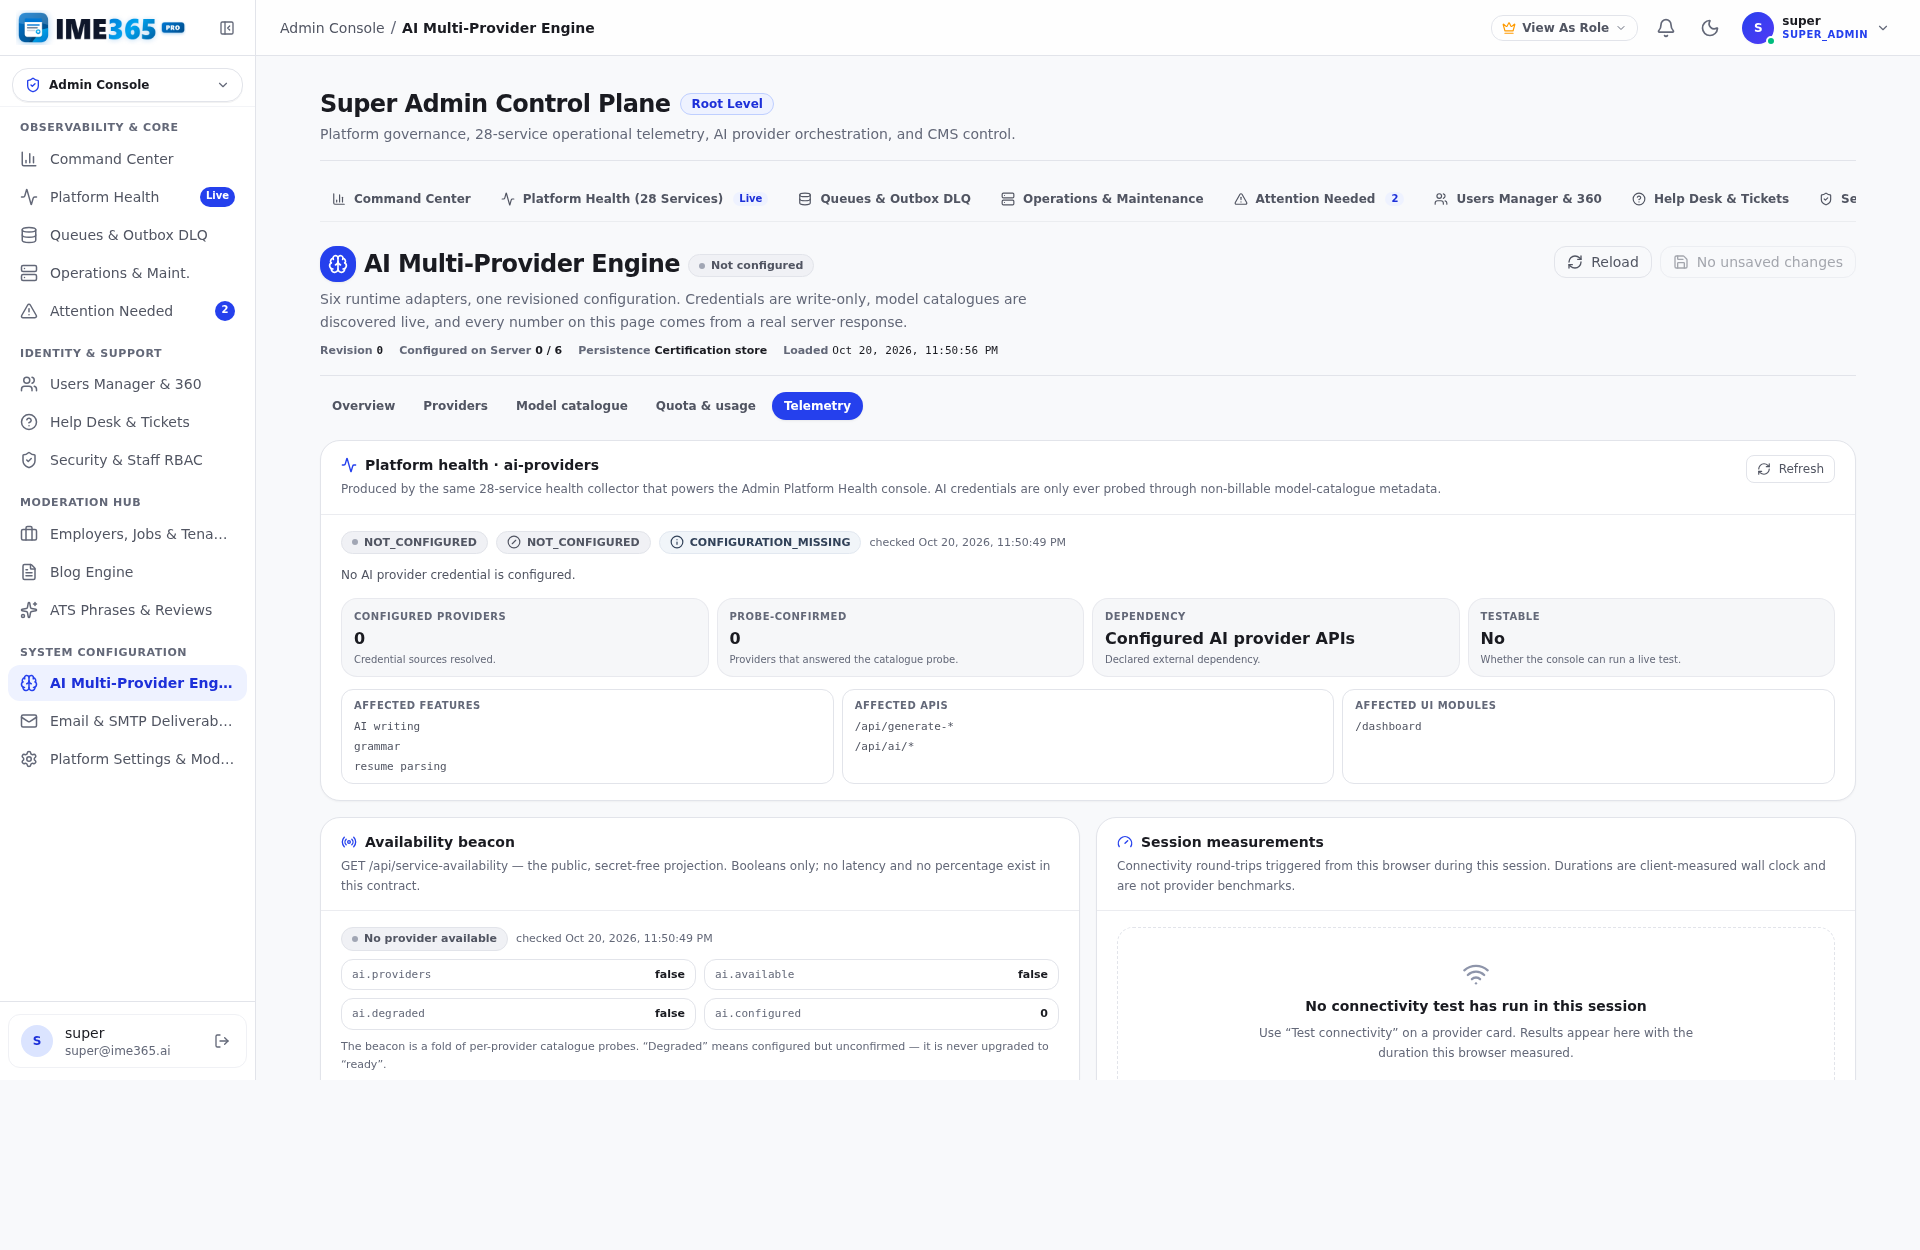
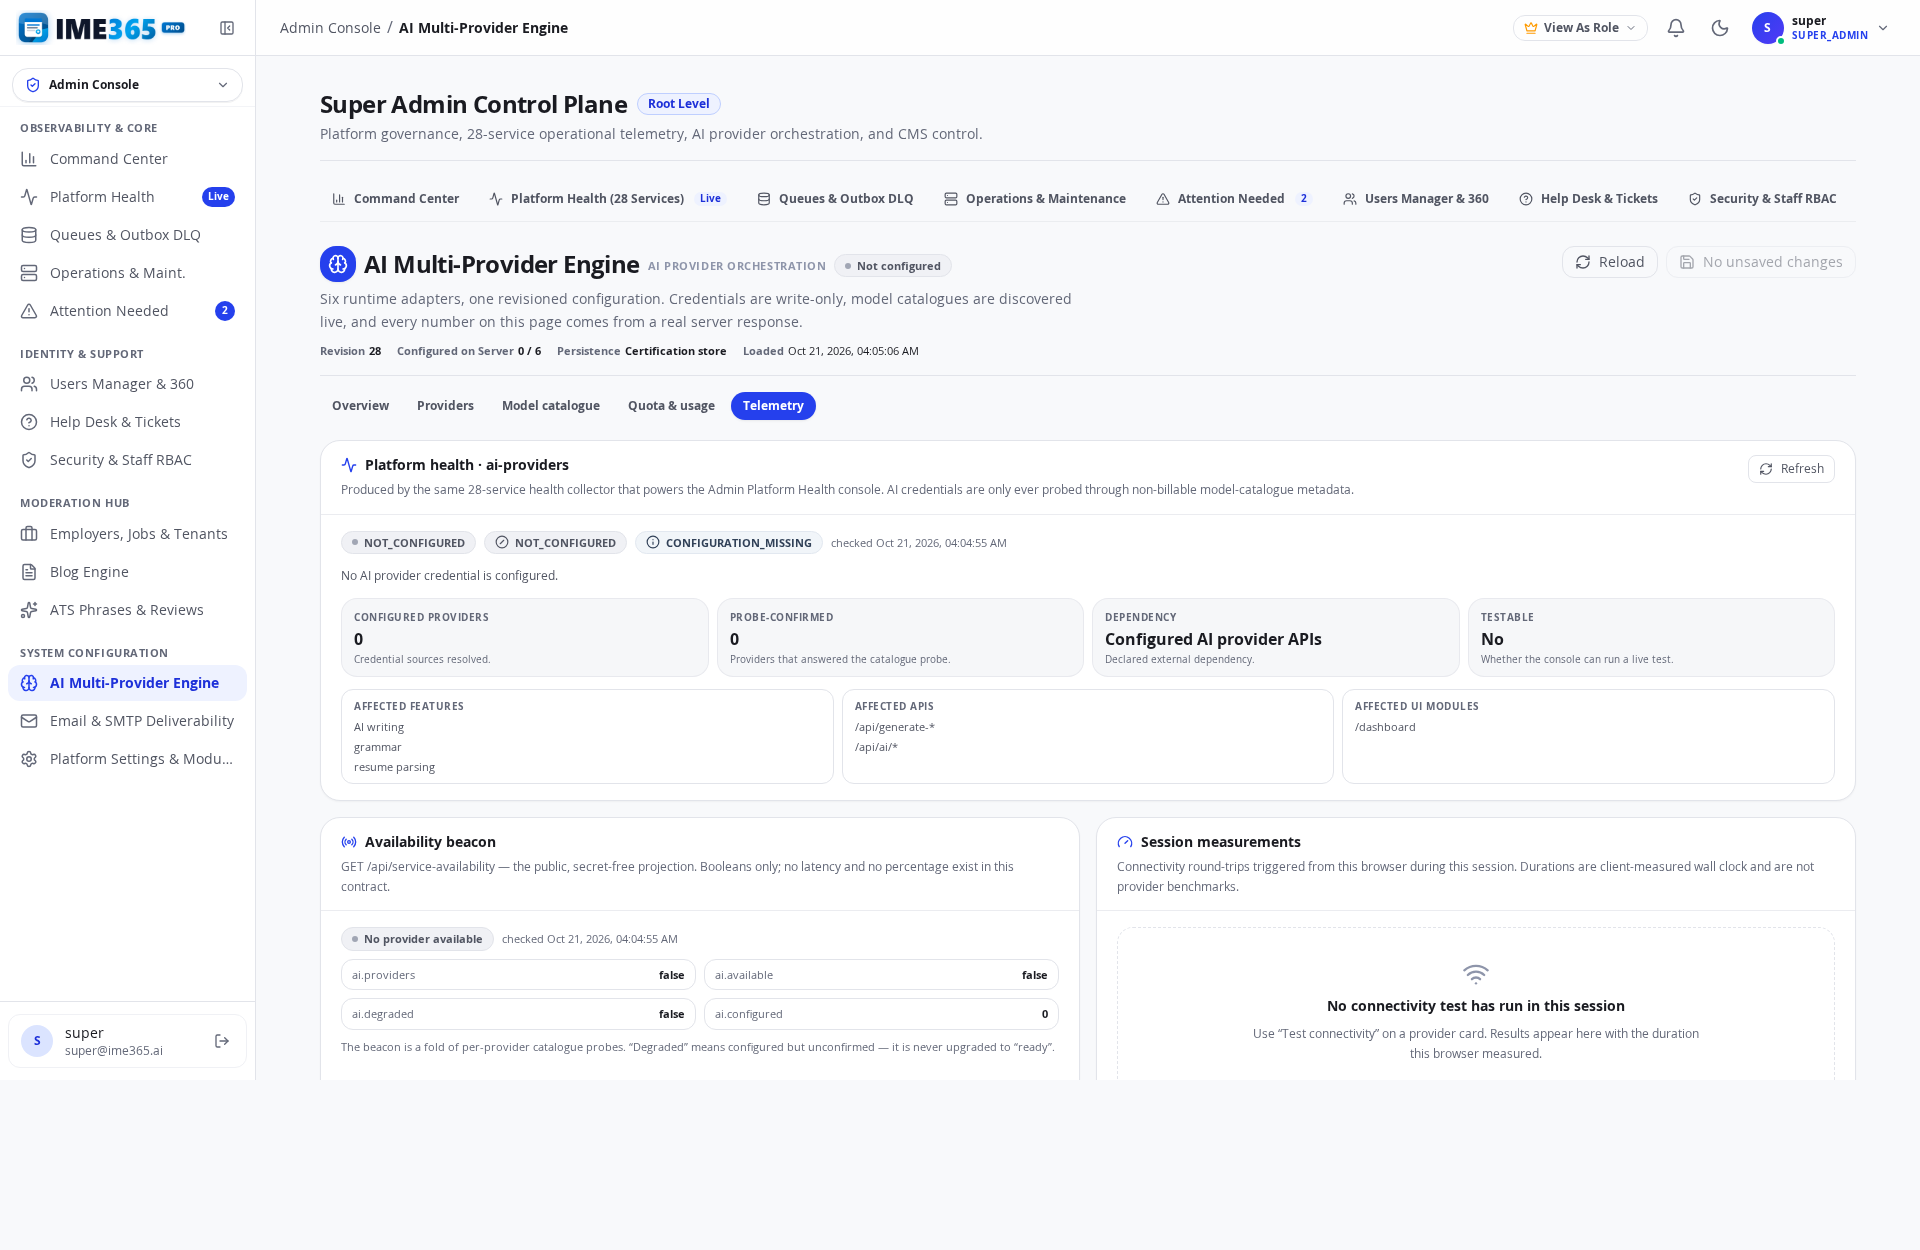
test(ai-engine): prove browser popup isolation; unblock the CI migration gate
Popups
- New external-links suite drives every provider documentation link and the
  key-console links through a real browser popup: target=_blank,
  rel="noopener noreferrer", window.opener === null, and the console's URL
  and section unchanged afterwards. It also proves a staged, unsaved API key
  survives the round trip — the classic way an operator loses work.
- The sandbox has no egress, so provider hosts are fulfilled at origin level
  only; the console's own data is never stubbed.

CI gate
- scripts/verify-mariadb-migrations.mjs asserted a literal end-version that
  went stale when 018-026 landed (026 is the AI quota counter migration this
  console reads), turning the quality gate red on every branch. The
  expectation is now derived from discoverMigrations(): a clean database must
  apply every checked-in migration and end with nothing pending.
- backend/test/migration-verifier-expectation.test.js pins that derivation
  without needing a database, so the literal cannot return.

Suite is now 112 tests across five viewports: 107 passed, 5 environment-
conditioned skips, 0 failed. Evidence recaptured (revision 28 live backend).

diff --git a/tests/ai-engine/external-links.spec.ts b/tests/ai-engine/external-links.spec.ts
@@ -1,0 +1,163 @@
+import { test, expect } from '@playwright/test';
+import { installSession, mintSession, openEngine } from './helpers';
+
+/**
+ * External references — browser popup handling.
+ *
+ * Every provider card links out to that provider's documentation and key
+ * console, and the telemetry health row links to the affected-service docs.
+ * These are the only navigations that leave the console, so they must:
+ *   • open a NEW tab, never navigate the console away (an operator mid-edit
+ *     must not lose an unsaved draft),
+ *   • carry rel="noopener noreferrer" so the target tab cannot reach back into
+ *     the admin window,
+ *   • point at the provider's real documentation host from the registry.
+ *
+ * The sandbox has no outbound network, so the popup itself may fail to load —
+ * this test asserts the *browser-level* contract (a new window with the right
+ * URL and no opener), not the remote page's content.
+ */
+
+/**
+ * This sandbox has no outbound egress, so a real provider documentation host
+ * cannot answer. Each provider host is fulfilled locally at the ORIGIN level
+ * (the URL stays the real one) purely so the popup keeps its identity and the
+ * assertions can address it; nothing about the console's own data is affected.
+ */
+const PROVIDER_HOSTS = [
+  'docs.api.nvidia.com',
+  'ai.google.dev',
+  'platform.openai.com',
+  'console.groq.com',
+  'openrouter.ai',
+  'api-docs.deepseek.com',
+  'build.nvidia.com',
+  'aistudio.google.com',
+  'platform.deepseek.com',
+];
+
+async function stubProviderHosts(context: import('@playwright/test').BrowserContext) {
+  await context.route(
+    (url) => PROVIDER_HOSTS.some((host) => url.hostname === host || url.hostname.endsWith(`.${host}`)),
+    (route) =>
+      route.fulfill({
+        status: 200,
+        contentType: 'text/html',
+        body: '<!doctype html><title>provider documentation (offline stub)</title><h1>offline stub</h1>',
+      }),
+  );
+}
+
+const DOCS_HOSTS: Record<string, string> = {
+  nvidia: 'docs.api.nvidia.com',
+  gemini: 'ai.google.dev',
+  openai: 'platform.openai.com',
+  groq: 'console.groq.com',
+  openrouter: 'openrouter.ai',
+  deepseek: 'api-docs.deepseek.com',
+};
+
+test.describe('External references open in a popup', () => {
+  test('provider documentation links open a new tab and never navigate the console @smoke', async ({ page, context, request }) => {
+    const session = await mintSession(request);
+    await installSession(context, session);
+    await stubProviderHosts(context);
+    await openEngine(page, 'providers');
+
+    const tabs = page.getByTestId('ai-engine-tabs');
+    for (const provider of Object.keys(DOCS_HOSTS)) {
+      const card = page.getByTestId(`ai-engine-provider-${provider}`);
+      const docs = card.getByRole('link', { name: /API docs/i }).first();
+      await docs.scrollIntoViewIfNeeded();
+      await expect(docs, `${provider} docs link`).toBeVisible();
+
+      // Structural guarantee: an outbound reference must never retain a handle
+      // to this window.
+      const rel = (await docs.getAttribute('rel')) ?? '';
+      expect(rel, `${provider} docs rel`).toContain('noopener');
+      expect(rel, `${provider} docs rel`).toContain('noreferrer');
+      expect(await docs.getAttribute('target'), `${provider} target`).toBe('_blank');
+      const href = (await docs.getAttribute('href')) ?? '';
+      expect(href, `${provider} docs href`).toContain(DOCS_HOSTS[provider]);
+
+      const [popup] = await Promise.all([
+        page.waitForEvent('popup', { timeout: 15_000 }),
+        docs.click(),
+      ]);
+      expect(popup.url(), `${provider} popup URL`).toContain(DOCS_HOSTS[provider]);
+      // A noopener popup must not be able to call back into the admin window.
+      expect(await popup.evaluate(() => window.opener === null).catch(() => true)).toBe(true);
+      await popup.close();
+
+      // The console is untouched: same URL, same section, tab strip still live.
+      expect(new URL(page.url()).pathname).toMatch(/\/admin\/ai-settings$/);
+      await expect(page.getByTestId('ai-engine-section-providers')).toBeVisible();
+      await expect(tabs).toBeVisible();
+    }
+  });
+
+  test('provider key consoles open as popups with the same isolation', async ({ page, context, request }) => {
+    const session = await mintSession(request);
+    await installSession(context, session);
+    await stubProviderHosts(context);
+    await openEngine(page, 'providers');
+
+    const card = page.getByTestId('ai-engine-provider-openai');
+    const keyConsole = card.getByRole('link', { name: /Key console/i }).first();
+    await keyConsole.scrollIntoViewIfNeeded();
+
+    const rel = (await keyConsole.getAttribute('rel')) ?? '';
+    expect(rel).toContain('noopener');
+
+    const [popup] = await Promise.all([
+      page.waitForEvent('popup', { timeout: 15_000 }),
+      keyConsole.click(),
+    ]);
+    expect(popup.url()).toContain('platform.openai.com');
+    await popup.close();
+
+    await expect(page.getByTestId('ai-engine-section-providers')).toBeVisible();
+  });
+
+  test('an unsaved draft survives leaving the page to read provider documentation @smoke', async ({ page, context, request }) => {
+    const session = await mintSession(request);
+    await installSession(context, session);
+    await stubProviderHosts(context);
+    await openEngine(page, 'providers');
+
+    // Stage an edit, then use the external link — the classic way an operator
+    // loses work in an admin console.
+    await page.getByTestId('ai-engine-key-groq').fill('gsk_popup_survival_probe_0123456789');
+    await expect(page.getByTestId('ai-engine-unsaved')).toBeVisible();
+
+    const docs = page.getByTestId('ai-engine-provider-groq').getByRole('link', { name: /API docs/i }).first();
+    await docs.scrollIntoViewIfNeeded();
+    const [popup] = await Promise.all([page.waitForEvent('popup', { timeout: 15_000 }), docs.click()]);
+    await popup.close();
+
+    // Still dirty, still holding the staged value, still on the same revision.
+    await expect(page.getByTestId('ai-engine-unsaved')).toBeVisible();
+    await expect(page.getByTestId('ai-engine-key-groq')).toHaveValue('gsk_popup_survival_probe_0123456789');
+
+    await page.getByRole('button', { name: /Discard/i }).click();
+    await expect(page.getByTestId('ai-engine-unsaved')).toHaveCount(0);
+  });
+
+  test('the telemetry health row links out to the affected service documentation', async ({ page, context, request }) => {
+    const session = await mintSession(request);
+    await installSession(context, session);
+    await openEngine(page, 'telemetry');
+
+    const health = page.getByTestId('ai-engine-telemetry-health');
+    const docs = health.getByRole('link', { name: /docs|documentation|runbook/i }).first();
+    if ((await docs.count()) === 0) {
+      // The collector only exposes `docsHref` for services that declare one; an
+      // absent link must be absent, not a dead placeholder.
+      await expect(health.getByRole('link')).toHaveCount(0);
+      return;
+    }
+    const rel = (await docs.getAttribute('rel')) ?? '';
+    expect(rel).toContain('noopener');
+    await expect(docs).toHaveAttribute('target', '_blank');
+  });
+});

diff --git a/backend/test/migration-verifier-expectation.test.js b/backend/test/migration-verifier-expectation.test.js
@@ -1,0 +1,90 @@
+'use strict';
+
+/**
+ * Guard for the CI migration verifier's expectation logic.
+ *
+ * WHY THIS EXISTS
+ * `scripts/verify-mariadb-migrations.mjs` used to assert that a clean database
+ * ends at the literal version `017`. That was true when it was written and went
+ * stale the moment migrations 018–026 landed: the gate then failed on every
+ * branch for a reason unrelated to the change under review, which is exactly
+ * the failure mode a gate must never have.
+ *
+ * The verifier is a destructive MariaDB integration script and cannot run in a
+ * unit test, but its *expectation* can: a clean database must apply every
+ * checked-in migration and end with nothing pending. These assertions pin that
+ * derivation so the literal cannot creep back in.
+ */
+
+const test = require('node:test');
+const assert = require('node:assert/strict');
+const fs = require('node:fs');
+const path = require('node:path');
+const { createRequire } = require('node:module');
+
+const ROOT = path.resolve(__dirname, '..', '..');
+const VERIFIER = path.join(ROOT, 'scripts/verify-mariadb-migrations.mjs');
+const requireFromRoot = createRequire(path.join(ROOT, 'package.json'));
+const { discoverMigrations } = requireFromRoot(path.join(ROOT, 'backend/database/migrationRunner.js'));
+
+const source = fs.readFileSync(VERIFIER, 'utf8');
+
+test('the clean-state expectation is derived from the migration directory', () => {
+  assert.match(
+    source,
+    /const discovered = discoverMigrations\(\);/,
+    'the verifier must discover the migration set instead of assuming a fixed last version',
+  );
+  assert.match(
+    source,
+    /clean\.applied\.length !== discovered\.length/,
+    'a clean database must apply every discovered migration',
+  );
+  assert.match(
+    source,
+    /clean\.pending\.length > 0/,
+    'a clean database must end with no pending migrations',
+  );
+  assert.match(
+    source,
+    /clean\.applied\.at\(-1\)\?\.version !== latestMigrationVersion/,
+    'the last applied migration must be the newest discovered migration',
+  );
+});
+
+test('no hardcoded migration version gates a clean-state run', () => {
+  // The rollback section legitimately names historical versions; the clean-state
+  // check must not. Isolate the clean-state block and assert it is version-free.
+  const start = source.indexOf('const clean = await runMigrations(');
+  assert.ok(start > -1, 'clean-state run must exist');
+  const end = source.indexOf('const invitationTableCount', start);
+  assert.ok(end > start, 'clean-state assertions must be locatable');
+
+  const block = source.slice(start, end);
+  const literals = block.match(/'0\d\d'/g) || [];
+  assert.deepEqual(
+    literals,
+    [],
+    `clean-state assertions must not name a fixed version (found ${literals.join(', ')})`,
+  );
+});
+
+test('the checked-in migration set is contiguous and reaches a real newest version', () => {
+  const migrations = discoverMigrations();
+  assert.ok(migrations.length >= 26, `expected the full migration set, found ${migrations.length}`);
+  for (const migration of migrations) {
+    assert.match(migration.version, /^\d{3}$/, `unexpected version format: ${migration.version}`);
+    assert.ok(migration.checksum.length === 64, `missing checksum for ${migration.version}`);
+  }
+  const newest = migrations.at(-1);
+  assert.ok(newest, 'at least one migration must exist');
+  // The AI quota counter migration is what the stale literal was hiding.
+  assert.ok(
+    migrations.some((migration) => migration.name.includes('ai_quota_counters')),
+    'the ai_quota_counters migration (026) must be part of the set',
+  );
+  assert.ok(
+    Number(newest.version) >= 26,
+    `newest migration ${newest.version} predates the AI quota counters`,
+  );
+});

diff --git a/.bridge/evidence/ai-engine-audit/AI_ENGINE_PARITY_AUDIT.md b/.bridge/evidence/ai-engine-audit/AI_ENGINE_PARITY_AUDIT.md
@@ -82,7 +82,7 @@ Nothing in the console upgrades a "cannot read" into a "0".
 
 ## 4. Test matrix
 
-`playwright.ai-engine.config.js` — 5 projects (375 / 414 / 768 / 1280 / 1920), 98 scheduled tests, **93 passed, 5 skipped, 0 failed** (5.4 min).
+`playwright.ai-engine.config.js` — 5 projects (375 / 414 / 768 / 1280 / 1920), 112 scheduled tests, **107 passed, 5 skipped, 0 failed** (6.3 min).
 
 Tag policy keeps mobile coverage real without a 15-minute run:
 
@@ -99,6 +99,7 @@ Coverage highlights:
 - Popups: reauth retry of the exact pending save (produced with a real 403 body), revision conflict (409), model-detail dialog + Escape, focus trap and focus restoration.
 - Failure honesty: 503 settings read produces a retryable error and **no** provider cards; dead beacon produces no invented uptime.
 - Responsive: zero horizontal overflow on all five sections × five viewports, control boxes non-degenerate, sticky bar clears the last card at max scroll, dialogs fit the viewport, 36 px targets on phones.
+- **Popups (external references):** all six provider documentation links and the key-console links open a real browser popup (`target="_blank"`, `rel="noopener noreferrer"`, `window.opener === null`), the console URL and section never change, and a staged-but-unsaved API key survives the round trip. The sandbox has no egress, so the provider *hosts* are fulfilled at origin level only — the console's own data is untouched.
 
 ### Reproduce
 
@@ -127,7 +128,22 @@ The config boots the Vite app on `:4000` and the backend on `:8080` in certifica
 
 ---
 
-## 6. Remaining, explicitly out of scope
+## 6. CI gate repair (adjacent, blocking)
+
+The PR's quality gate was red before this branch existed, at the step **before** lint:
+
+```
+Clean-state migration application did not reach version 017 (observed 026)
+```
+
+`scripts/verify-mariadb-migrations.mjs` asserted a literal end-version that went stale when migrations 018–026 landed — 026 being the AI quota counter migration that this console's usage panel reads. The expectation is now derived from `discoverMigrations()`: a clean database must apply **every** checked-in migration and finish with nothing pending. `backend/test/migration-verifier-expectation.test.js` pins that derivation DB-free so the literal cannot return.
+
+Two further pre-existing red marks remain and were deliberately **not** touched, because they belong to other workstreams:
+
+- `eslint .` reports 9 errors in unmodified files (`backend/repositories/InMemoryRepository.js` duplicate object keys from the deliberate server-owned-override spread; `tests/unit/buildResumeLogic.unit.test.js` calls an undefined `shouldStepCompleted`).
+- The gate's own MariaDB steps cannot be exercised in this sandbox (no database, no root); only static verification of the new assertion logic was possible here.
+
+## 7. Remaining, explicitly out of scope
 
 - **Live provider traffic.** This sandbox cannot reach `api.openai.com` (TLS reset). Connectivity and discovery therefore demonstrate the *failure* path end-to-end; the success path is covered structurally (the same code renders either branch) but cannot be photographed here.
 - **MariaDB persistence.** `persistence: "mariadb"` requires a database; the in-memory certification store exercises the same projection and revision semantics.
